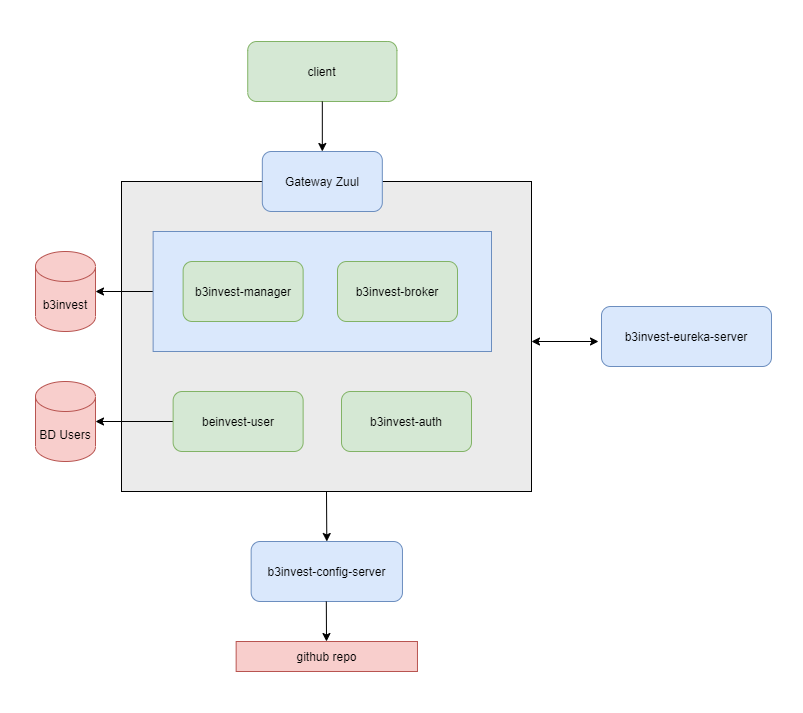
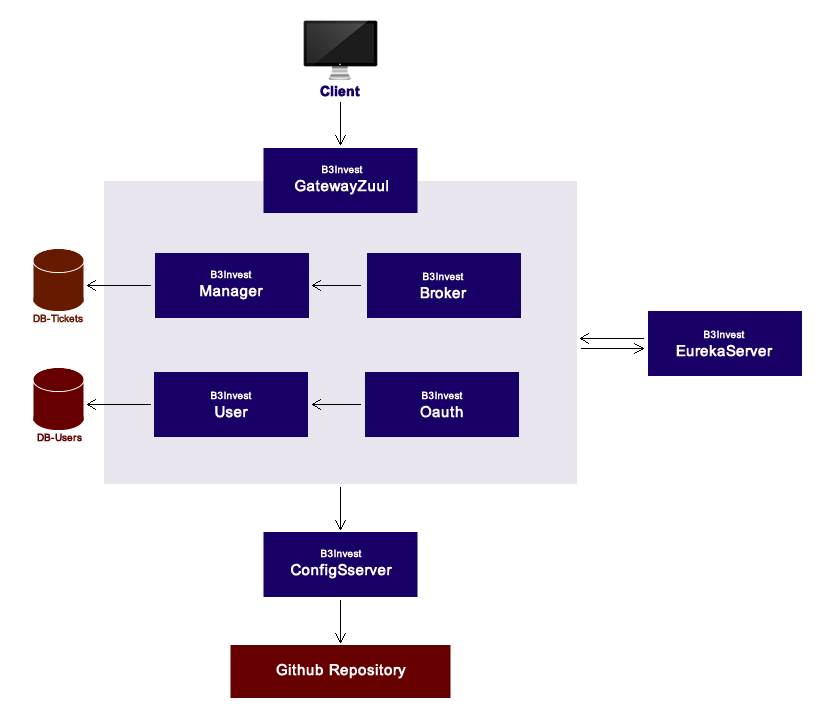
update archicture diagram

Changed region(s): [[0.0311, 0.1851, 0.9651, 0.6788], [0.2491, 0.6788, 0.5604, 0.9874], [0.2802, 0.0309, 0.4981, 0.1543]]

diff --git a/README.md b/README.md
@@ -56,7 +56,7 @@ Default port: 8765
 ## Architecture Design
 ![](https://raw.githubusercontent.com/rafacancian/b3invest/main/helper/architecture/architecture.png)
 
-![](https://raw.githubusercontent.com/rafacancian/b3invest/main/helper/architecture/architectureLayout.png)
+![](https://raw.githubusercontent.com/rafacancian/b3invest/main/helper/architecture/authenticationFlow.png)
 
 ---
 ## DockerFiles
